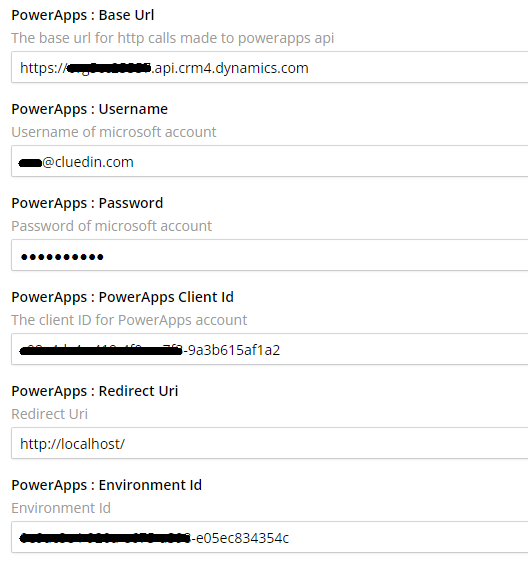
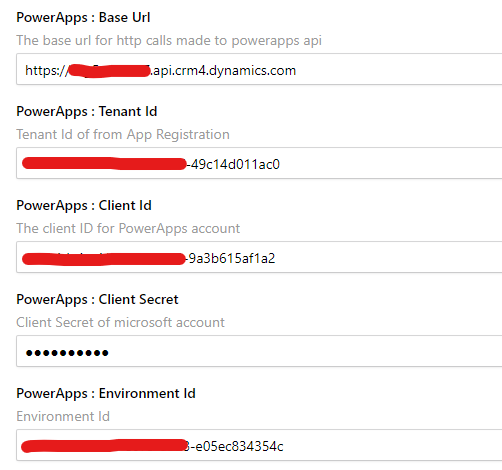
PowerApps security roles and application users

Changed region(s): [[0.0, 0.0, 1.0, 0.983]]

diff --git a/docs/180-microsoft-integration/powerapps/010-setup-credentials.md b/docs/180-microsoft-integration/powerapps/010-setup-credentials.md
@@ -9,18 +9,34 @@ tags: ["integration", "microsoft", "powerapps", "dataverse"]
 last_modified: 2023-05-17
 ---
 
+## Credentials
 Enter your [Microsoft 365](https://www.microsoft365.com/) Credentials in CluedIn Settings.
 1. Visit the CluedIn web application
 2. Navigate to Administration => Settings
 3. Scroll down to the Organization Settings section, where you will find the settings for PowerApps.
 ![Input Microsoft Purview credentials](./images/cluedin-setting.png)
-    - Username
-    - Password
-    - Redirect Uri (default: http://localhost/)
+    - Base Url
+    - Tenant Id
+    - Client Id
+    - Client Secret
+    - Environment Id
 4. You can find the values for this by navigating to either the PowerApps page or the Power Automate page and checking the Developer Resources information.
 ![Developer Resources 1](./images/developer-resources1.png)
 ![Developer Resources 2](./images/developer-resources2.png)
     - **Base Url** is the _Web API endpoint_ base URL
     - Environment Id
-5. For Client Id, you can generate this by navigating to your Azure Active Directory => App registration. Please refer to this [link](https://learn.microsoft.com/en-us/power-apps/developer/data-platform/walkthrough-register-app-azure-active-directory).
+5. For Tenant Id, Client Id & Client Secret, you can generate this by navigating to your Azure Active Directory => App registration. Please refer to this [link](https://learn.microsoft.com/en-us/power-apps/developer/data-platform/walkthrough-register-app-azure-active-directory).
+    - Tenant Id
     - Client Id
+    - Client Secret
+
+## Setup Security Roles
+The following table lists the minimum role assignment we need to be able to successfully run the PowerApps Connector. Please refer to this [link](https://learn.microsoft.com/en-us/power-platform/admin/security-roles-privileges) for a detailed explanation of Security roles and privileges.
+| Table | Create | Read | Write | Delete |
+|:----------|:--|:--------|:---|:---|
+| _Customization_ |
+| Solution | Organization| Organization | Organization | Organization |
+| Publisher | Organization| Organization | Organization | Organization |
+
+## Setup Application Users
+Upon setting up your App Registration and Security Roles, we need to register it under the Application User. Please refer to this [link](https://learn.microsoft.com/en-us/power-platform/admin/security-roles-privileges) for more information.
